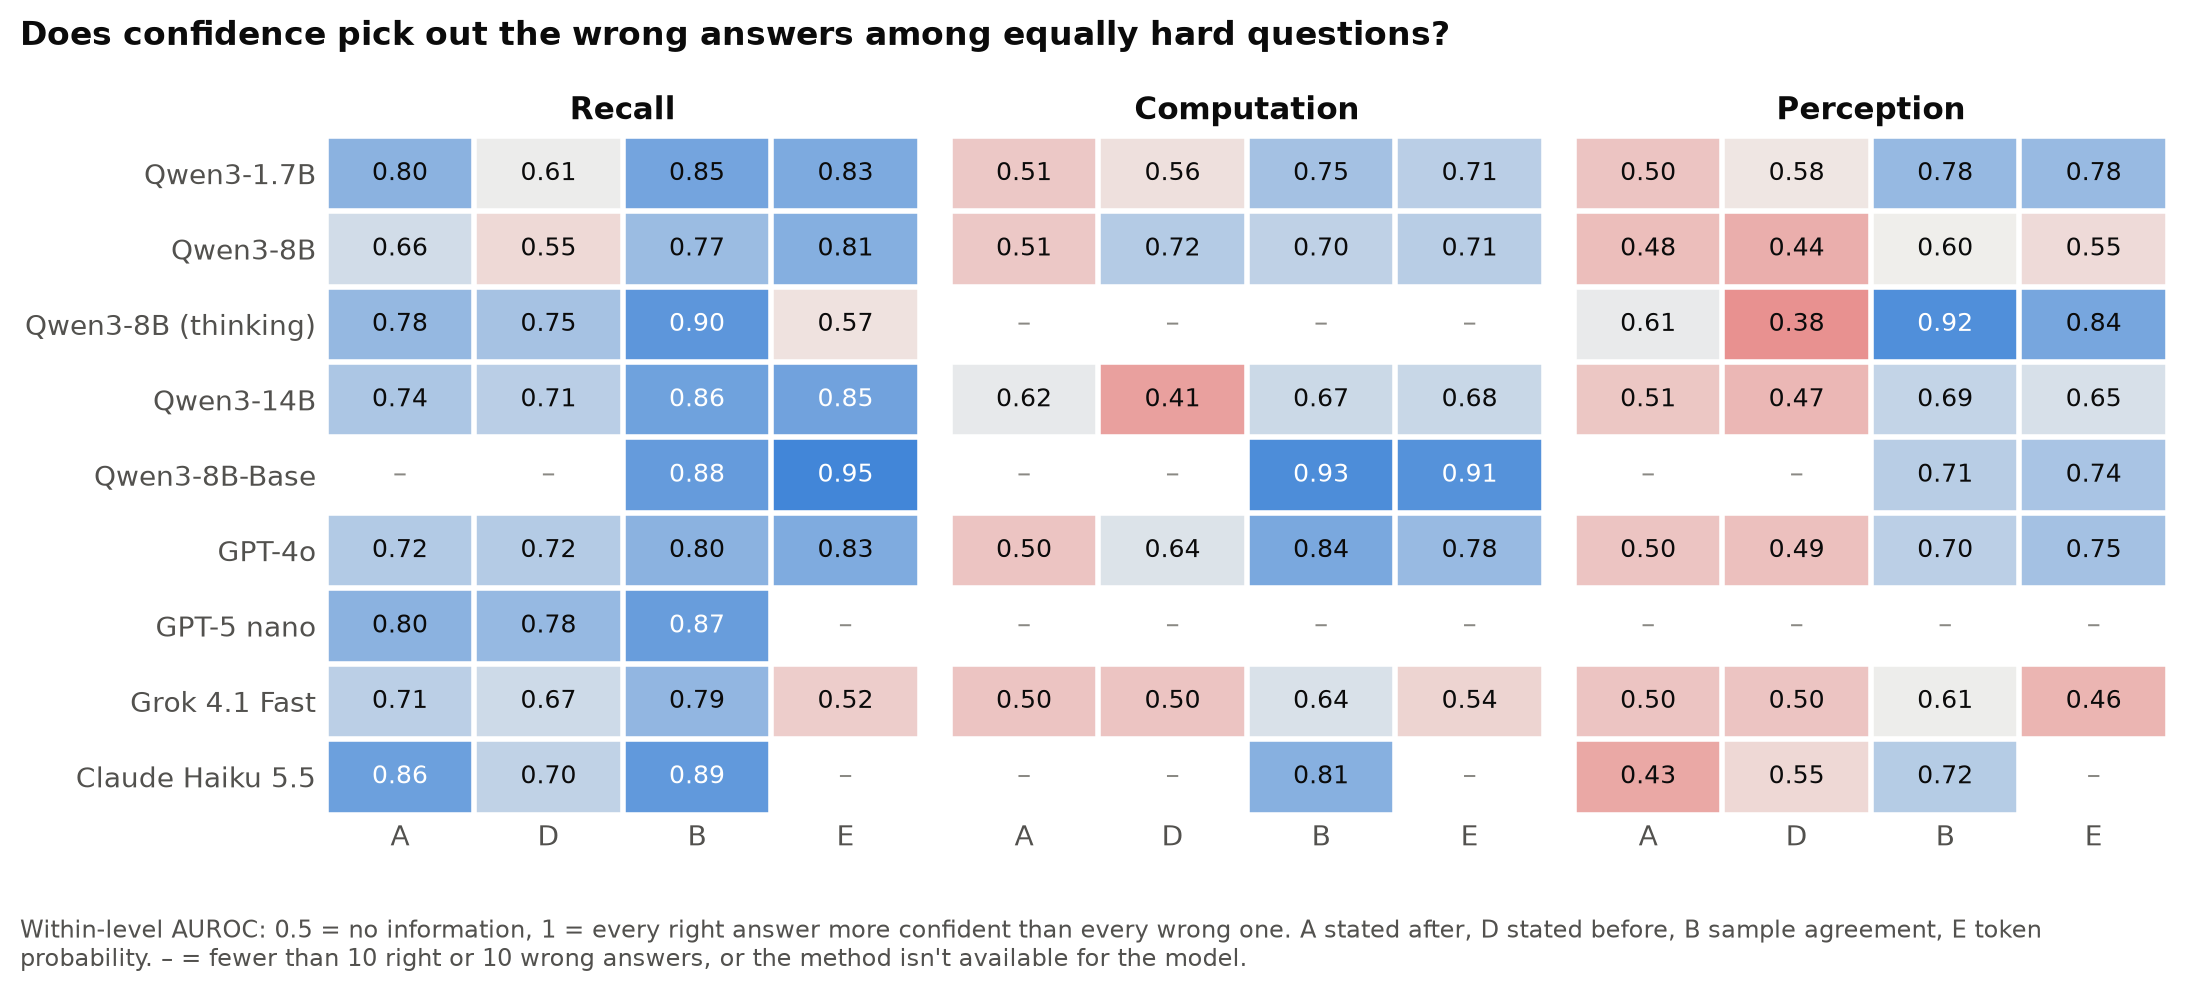
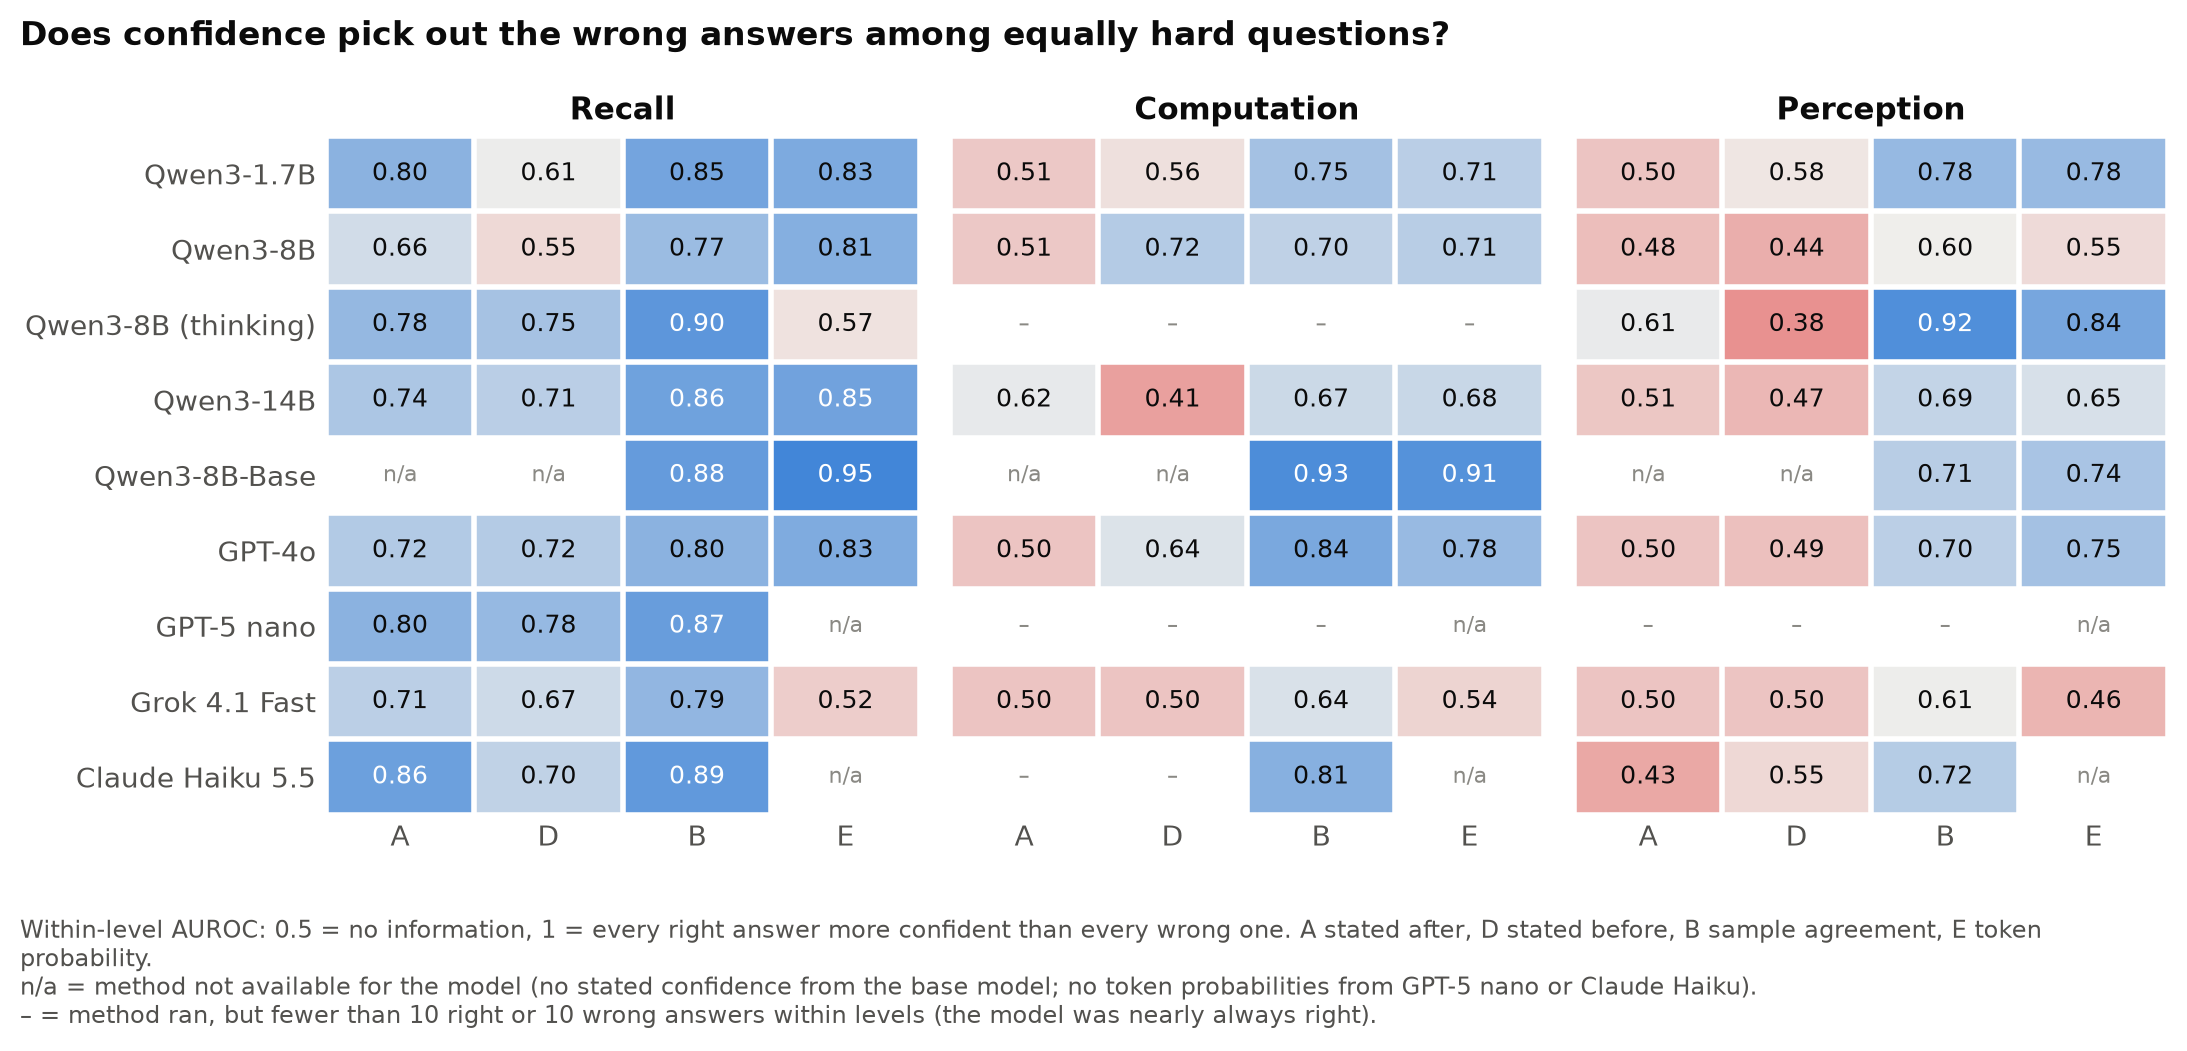
Phase 1 heatmap: separate n/a (method unavailable) from – (too few errors)

diff --git a/experiments/epic2/phase1_confidence/plots.py b/experiments/epic2/phase1_confidence/plots.py
@@ -51,10 +51,15 @@ plt.rcParams.update({
 })
 
 
-def caption(fig, text: str, y: float = -0.04) -> None:
-    """Small grey note under the figure, wrapped to the figure's width."""
+def caption(fig, text: str, y: float = -0.04, keep_lines: bool = False) -> None:
+    """Small grey note under the figure, wrapped to the figure's width.
+
+    keep_lines: wrap each "\n"-separated line on its own, so line breaks survive.
+    """
     width = int(fig.get_figwidth() * 15)
-    fig.text(0.01, y, textwrap.fill(text, width), fontsize=8.5, color=INK2, ha="left", va="top")
+    lines = text.split("\n") if keep_lines else [text]
+    body = "\n".join(textwrap.fill(line, width) for line in lines)
+    fig.text(0.01, y, body, fontsize=8.5, color=INK2, ha="left", va="top")
 
 
 def save(fig, name: str) -> None:
@@ -88,7 +93,8 @@ def auroc_heatmap() -> None:
             for j in range(len(methods)):
                 v = grid[i, j]
                 if np.isnan(v):
-                    ax.text(j, i, "–", ha="center", va="center", color=MUTED)
+                    mark = "–" if (models[i], methods[j]) in k.index else "n/a"
+                    ax.text(j, i, mark, ha="center", va="center", fontsize=8, color=MUTED)
                 else:
                     ax.text(j, i, f"{v:.2f}", ha="center", va="center", fontsize=9,
                             color="white" if abs(v - 0.6) > 0.25 else INK)
@@ -106,8 +112,10 @@ def auroc_heatmap() -> None:
                  x=0.01, ha="left", fontweight="bold")
     caption(fig, "Within-level AUROC: 0.5 = no information, 1 = every right answer "
              "more confident than every wrong one. A stated after, D stated before, B sample "
-             "agreement, E token probability.\n– = fewer than 10 right or 10 wrong answers, or "
-             "the method isn't available for the model.")
+             "agreement, E token probability.\nn/a = method not available for the model "
+             "(no stated confidence from the base model; no token probabilities from GPT-5 nano or Claude Haiku).\n"
+             "– = method ran, but fewer than 10 right or 10 wrong answers within levels "
+             "(the model was nearly always right).", keep_lines=True)
     fig.tight_layout()
     save(fig, "auroc_within")
 
